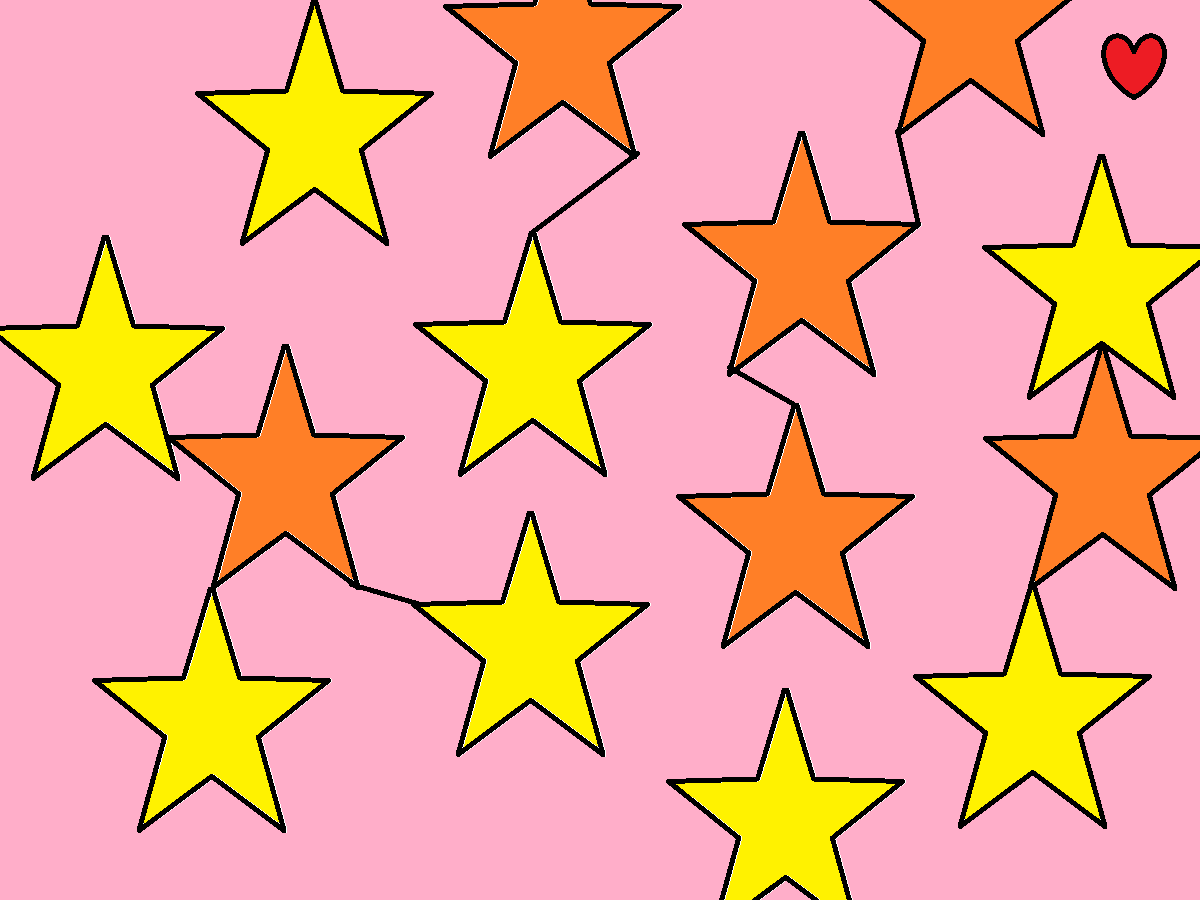
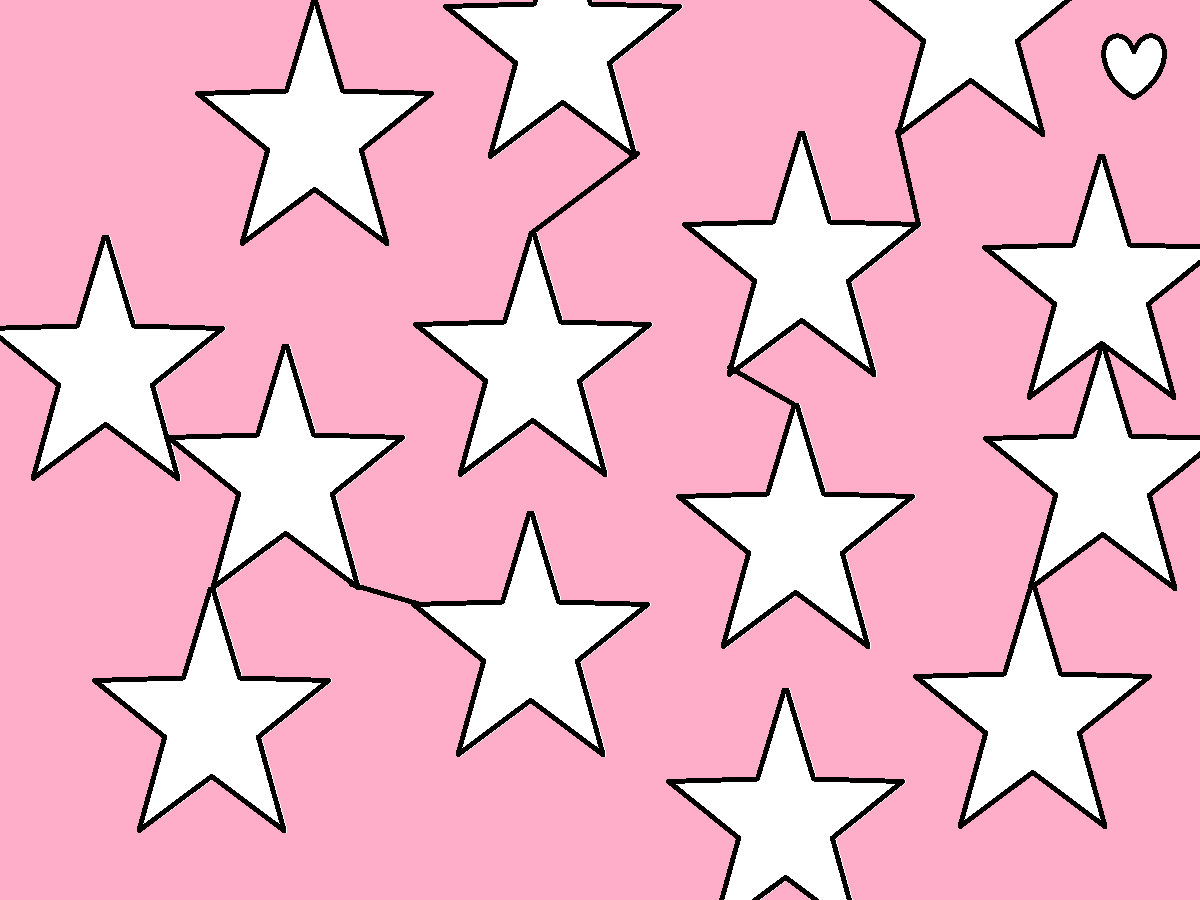
big d

diff --git a/src/RealView.java b/src/RealView.java
@@ -68,34 +68,10 @@ public class RealView extends View {
 
     private final ParticleFilter particleFilter;
 
-<<<<<<< Updated upstream
     public RealView(CarGUIPanel panel, int viewIndex) {
         super(panel, viewIndex);
         carSocket = new CarSocket(); //initialize the car socket
          particleFilter = new ParticleFilter(); //initialize slam
-=======
-    private static final BufferedImage exitIcon;
-    private final Button exitButton;
-
-    static {
-        exitIcon = Util.loadImage("assets/exit_icon.png");
-    }
-
-    public RealView(CarGUIPanel panel) {
-        super(panel);
-
-        carSocket = new CarSocket();
-        particleFilter = new ParticleFilter();
-
-        // create exit button in top-left corner
-        exitButton = new Button(
-            () -> 10,  // x supplier
-            () -> 10,  // y supplier
-            50, 50,    // width, height
-            exitIcon, true,               // icon and initial state
-            () -> panel.startMenu()  // onClick handler
-        );
->>>>>>> Stashed changes
     }
 
     @Override